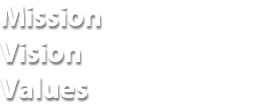
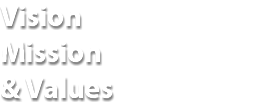
Add files via upload

Changed region(s): [[0.0, 0.7027, 0.4428, 0.9189], [0.0, 0.3784, 0.3838, 0.5946], [0.0, 0.0541, 0.3838, 0.2703]]

diff --git a/css/index.css b/css/index.css
@@ -1,1 +1,1 @@
-.version.index{color:#000009;background-color:#F66265;}#page{width:100%;background-color:transparent;border-color:#000000;margin-left:auto;background-image:none;margin-right:auto;z-index:1;border-width:0px;}#pu4790{z-index:2;}#u4790{margin-right:-10000px;-ms-filter:"progid:DXImageTransform.Microsoft.gradient(startColorstr='#FFD77222', endColorstr='#FFB2591B', GradientType=0)";position:relative;z-index:2;filter:progid:DXImageTransform.Microsoft.gradient(startColorstr=#FFD77222, endColorstr=#FFB2591B, GradientType=0);}#u1174-8{margin-right:-10000px;vertical-align:top;position:relative;z-index:9;display:block;}#pbuttonu1176{z-index:4;margin-right:-10000px;}#buttonu1176{margin-top:1px;position:relative;z-index:4;margin-right:-10000px;border-color:#787878;background-color:#29ABE2;}#pbuttonu1176:hover #buttonu1176{left:0%;margin-left:0%;border-style:solid;border-color:#00FFFF;background-color:transparent;margin-right:-10000px;min-height:0px;position:relative;margin-top:0px;border-width:1px;}#u1177{height:17px;vertical-align:top;background-position:0px 0px;background-repeat:no-repeat;z-index:6;width:91px;background-color:transparent;}#pbuttonu1176:hover #u1177{margin-right:-10000px;background-position:0px 0px;position:relative;background-color:transparent;background-repeat:no-repeat;}#pbuttonu1176 #u1177{margin-right:-10000px;position:relative;}#u2597{margin-right:-10000px;position:relative;z-index:27;background-color:transparent;}#u2598{z-index:28;display:block;}#u1185{opacity:1;position:relative;filter:alpha(opacity=100);-ms-filter:"progid:DXImageTransform.Microsoft.Alpha(Opacity=100)";z-index:17;background:transparent url("../images/seifsa-nav-system-update_03.jpg?crc=487503813") no-repeat left top;background-size:contain;}#u1193{opacity:1;position:relative;filter:alpha(opacity=100);-ms-filter:"progid:DXImageTransform.Microsoft.Alpha(Opacity=100)";z-index:24;background:transparent url("../images/seifsa-nav-system-update_05.jpg?crc=156303888") no-repeat left top;background-size:contain;}#u1192{opacity:1;position:relative;filter:alpha(opacity=100);-ms-filter:"progid:DXImageTransform.Microsoft.Alpha(Opacity=100)";z-index:23;background:transparent url("../images/seifsa-nav-system-update_10.jpg?crc=4044294069") no-repeat left top;background-size:contain;}#u1194{opacity:1;position:relative;filter:alpha(opacity=100);-ms-filter:"progid:DXImageTransform.Microsoft.Alpha(Opacity=100)";z-index:25;background:transparent url("../images/seifsa-nav-system-update_12.jpg?crc=4216409492") no-repeat left top;background-size:contain;}#u1187{opacity:1;background-color:transparent;filter:alpha(opacity=100);-ms-filter:"progid:DXImageTransform.Microsoft.Alpha(Opacity=100)";position:relative;background-position:left top;background-repeat:no-repeat;z-index:19;background-size:contain;}#u1186{opacity:1;background-color:transparent;filter:alpha(opacity=100);-ms-filter:"progid:DXImageTransform.Microsoft.Alpha(Opacity=100)";position:relative;background-position:left top;background-repeat:no-repeat;z-index:18;background-size:contain;}#u1190{opacity:1;position:relative;filter:alpha(opacity=100);-ms-filter:"progid:DXImageTransform.Microsoft.Alpha(Opacity=100)";z-index:21;background:transparent url("../images/seifsa-nav-system-update_22.jpg?crc=4238247746") no-repeat left top;background-size:contain;}#u1191{opacity:1;position:relative;filter:alpha(opacity=100);-ms-filter:"progid:DXImageTransform.Microsoft.Alpha(Opacity=100)";z-index:22;background:transparent url("../images/seifsa-nav-system-update_24.jpg?crc=4035648111") no-repeat left top;background-size:contain;}#u1189{opacity:1;position:relative;filter:alpha(opacity=100);-ms-filter:"progid:DXImageTransform.Microsoft.Alpha(Opacity=100)";z-index:20;background:transparent url("../images/seifsa-nav-system-update_21.jpg?crc=376259991") no-repeat left top;background-size:contain;}#u3473{opacity:1;position:relative;filter:alpha(opacity=100);-ms-filter:"progid:DXImageTransform.Microsoft.Alpha(Opacity=100)";z-index:26;background:transparent url("../images/seifsa-nav-system-update_20.jpg?crc=303644640") no-repeat left top;background-size:contain;}.html{background-color:#FFFFFF;}body{position:relative;}@media (min-width: 763px), print{#muse_css_mq{background-color:#FFFFFF;}#bp_infinity.active{display:block;}#page{min-height:537px;padding-bottom:41px;max-width:960px;}#ppu4790{z-index:0;margin-right:-10000px;margin-top:20px;width:47.09%;margin-left:2.09%;}#pu4790{width:100%;}#u4790{width:452px;background:-webkit-gradient(linear, center top, center bottom, color-stop(50%, #D77222),to(#B2591B));background:-webkit-linear-gradient(top,#D77222 50%,#B2591B );background:linear-gradient(to bottom,#D77222 50%,#B2591B );}#u1174-8{margin-top:20px;left:23px;}#u2597{width:262px;margin-top:58px;left:41.16%;}#pbuttonu1176{margin-top:147px;width:26.33%;margin-left:4.87%;}#buttonu1176{width:117px;height:27px;margin-left:0.85%;}#pbuttonu1176:hover #buttonu1176{width:117px;height:27px;}#u1177{background-image:url("../images/u1177.png?crc=220743904");}#pbuttonu1176:hover #u1177{background-image:url("../images/u1177-r.png?crc=220743904");margin-top:7px;left:12px;}#pbuttonu1176 #u1177{margin-top:7px;left:12px;}#pu1192{z-index:23;margin-top:30px;width:100%;}#u1192{width:221px;height:196px;margin-right:-10000px;}#u1194{width:221px;height:196px;margin-right:-10000px;left:51.11%;}#pu3473{z-index:26;margin-top:9px;width:100%;}#u3473{width:221px;height:84px;margin-right:-10000px;}#u1189{width:221px;height:84px;margin-right:-10000px;left:51.11%;}#ppu1185{z-index:0;margin-right:-10000px;margin-top:20px;width:46.78%;margin-left:51.15%;}#pu1185{z-index:17;width:100%;}#u1185{width:221px;height:198px;margin-right:-10000px;}#u1193{width:221px;height:198px;margin-right:-10000px;left:50.78%;}#u1186{width:449px;height:94px;background-image:url("../images/seifsa-nav-system-update_14.jpg?crc=4095777133");margin-top:29px;}#u1187{width:449px;height:94px;background-image:url("../images/seifsa-nav-system-update_16.jpg?crc=437558047");margin-top:9px;}#pu1190{z-index:21;margin-top:9px;width:100%;}#u1190{width:201px;height:84px;margin-right:-10000px;}#u1191{width:200px;height:84px;margin-right:-10000px;left:55.46%;}}@media (min-width: 602px) and (max-width: 762px){#muse_css_mq{background-color:#0002fa;}#bp_762.active{display:block;}#page{min-height:788.65px;padding-top:19px;padding-bottom:54.35000000000002px;max-width:762px;}#pu4790{width:94.62%;margin-left:2.63%;}#u4790{width:472px;background:-webkit-gradient(linear, center top, center bottom, color-stop(50%, #D77222),to(#B2591B));background:-webkit-linear-gradient(top,#D77222 50%,#B2591B );background:linear-gradient(to bottom,#D77222 50%,#B2591B );}#u1174-8{margin-top:28px;left:39px;}#u2597{width:245px;margin-bottom:-1px;margin-top:70px;left:47.67%;}#pbuttonu1176{margin-top:155px;width:16.51%;margin-left:5.14%;}#buttonu1176{width:117px;height:27px;margin-left:0.85%;}#pbuttonu1176:hover #buttonu1176{width:117px;height:27px;}#u1177{background-image:url("../images/u11772.png?crc=220743904");}#pbuttonu1176:hover #u1177{background-image:url("../images/u1177-r2.png?crc=220743904");margin-top:7px;left:12px;}#pbuttonu1176 #u1177{margin-top:7px;left:12px;}#u1185{width:221px;height:198px;margin-right:-10000px;margin-top:1px;left:69.35%;}#pu1193{z-index:24;margin-top:33px;width:94.62%;margin-left:2.76%;}#u1193{width:221px;height:198px;margin-right:-10000px;}#u1192{width:221px;height:196px;margin-right:-10000px;margin-top:1px;left:34.68%;}#u1194{width:221px;height:196px;margin-right:-10000px;margin-top:1px;left:69.35%;}#pu1186{z-index:18;margin-top:32px;width:93.31%;margin-left:2.63%;}#u1186{width:449px;height:94px;background-image:url("../images/seifsa-nav-system-update_14.jpg?crc=4095777133");margin-right:-10000px;}#u1190{width:201px;height:84px;margin-right:-10000px;margin-top:3px;left:71.73%;}#pu1187{z-index:19;margin-top:28px;width:93.18%;margin-left:2.63%;}#u1187{width:449px;height:94px;background-image:url("../images/seifsa-nav-system-update_16.jpg?crc=437558047");margin-right:-10000px;}#u1191{width:200px;height:84px;margin-right:-10000px;left:71.84%;}#pu3473{z-index:26;margin-top:27px;width:66.93%;margin-left:2.76%;}#u3473{width:221px;height:84px;margin-right:-10000px;}#u1189{width:221px;height:84px;margin-right:-10000px;left:56.67%;}body{overflow-x:hidden;}}@media (min-width: 533px) and (max-width: 601px){#muse_css_mq{background-color:#000259;}#bp_601.active{display:block;}#page{min-height:829.8999999999999px;padding-top:32px;padding-bottom:0px;max-width:601px;}#pu4790{width:84.7%;margin-left:6.49%;}#u4790{background:-webkit-gradient(linear, center top, center bottom, color-stop(50%, #D77222),to(#B2591B));background:-webkit-linear-gradient(top,#D77222 50%,#B2591B );background:linear-gradient(to bottom,#D77222 50%,#B2591B );width:100%;}#u1174-8{margin-top:14px;left:37px;}#u2597{width:186px;margin-top:92px;left:60.12%;}#pbuttonu1176{margin-top:141px;width:23.38%;margin-left:7.08%;}#buttonu1176{width:117px;height:27px;margin-left:0.85%;}#pbuttonu1176:hover #buttonu1176{width:117px;height:27px;}#u1177{background-image:url("../images/u11773.png?crc=220743904");}#pbuttonu1176:hover #u1177{background-image:url("../images/u1177-r3.png?crc=220743904");margin-top:7px;left:12px;}#pbuttonu1176 #u1177{margin-top:7px;left:12px;}#pu1185{z-index:17;margin-top:31px;width:84.7%;margin-left:6.49%;}#u1185{width:221px;height:198px;margin-right:-10000px;}#u1193{width:221px;height:198px;margin-right:-10000px;left:56.59%;}#pu1192{z-index:23;margin-top:31px;width:84.7%;margin-left:6.49%;}#u1192{width:221px;height:196px;margin-right:-10000px;}#u1194{width:221px;height:196px;margin-right:-10000px;left:56.59%;}#u1187{width:449px;height:94px;background-image:url("../images/seifsa-nav-system-update_16.jpg?crc=437558047");margin-top:26px;margin-left:12.65%;}#u1186{width:449px;height:94px;background-image:url("../images/seifsa-nav-system-update_14.jpg?crc=4095777133");margin-top:26px;margin-left:12.65%;}#pu1190{z-index:21;margin-top:25px;width:74.71%;margin-left:12.65%;}#u1190{width:201px;height:84px;margin-right:-10000px;}#u1189{width:221px;height:84px;margin-right:-10000px;left:50.78%;}#pu3473{z-index:26;margin-top:11px;width:74.71%;margin-left:12.65%;}#u3473{width:221px;height:84px;margin-right:-10000px;}#u1191{width:200px;height:84px;margin-right:-10000px;left:55.46%;}body{overflow-x:hidden;padding-bottom:43px;}}@media (min-width: 387px) and (max-width: 532px){#muse_css_mq{background-color:#000214;}#bp_532.active{display:block;}#page{min-height:842px;padding-top:20px;max-width:532px;}#pu4790{width:90.79%;margin-left:5.27%;}#u4790{background:-webkit-gradient(linear, center top, center bottom, color-stop(50%, #D77222),to(#B2591B));background:-webkit-linear-gradient(top,#D77222 50%,#B2591B );background:linear-gradient(to bottom,#D77222 50%,#B2591B );width:100%;}#u1174-8{margin-top:19px;left:31px;}#u2597{width:186px;margin-top:103px;left:57.15%;}#pbuttonu1176{margin-top:138px;width:24.64%;margin-left:6.22%;}#buttonu1176{width:117px;height:27px;margin-left:0.85%;}#pbuttonu1176:hover #buttonu1176{width:117px;height:27px;}#u1177{background-image:url("../images/u11774.png?crc=220743904");}#pbuttonu1176:hover #u1177{background-image:url("../images/u1177-r4.png?crc=220743904");margin-top:7px;left:12px;}#pbuttonu1176 #u1177{margin-top:7px;left:12px;}#pu1185{z-index:17;margin-top:31px;width:89.48%;margin-left:6.4%;}#u1185{width:221px;height:198px;margin-right:-10000px;}#u1193{width:221px;height:198px;margin-right:-10000px;left:53.58%;}#pu1192{z-index:23;margin-top:31px;width:89.48%;margin-left:6.4%;}#u1192{width:221px;height:196px;margin-right:-10000px;}#u1194{width:221px;height:196px;margin-right:-10000px;left:53.58%;}#u1187{width:449px;height:94px;background-image:url("../images/seifsa-nav-system-update_16.jpg?crc=437558047");margin-top:26px;margin-left:7.9%;}#u1186{width:449px;height:94px;background-image:url("../images/seifsa-nav-system-update_14.jpg?crc=4095777133");margin-top:25px;margin-left:7.9%;}#pu1190{z-index:21;margin-top:26px;width:84.4%;margin-left:7.71%;}#u1190{width:201px;height:84px;margin-right:-10000px;}#u1189{width:221px;height:84px;margin-right:-10000px;left:50.78%;}#pu3473{z-index:26;margin-top:11px;width:83.84%;margin-left:7.71%;}#u3473{width:221px;height:84px;margin-right:-10000px;}#u1191{width:200px;height:84px;margin-right:-10000px;left:55.16%;}body{overflow-x:hidden;padding-bottom:43px;}}@media (max-width: 386px){#muse_css_mq{background-color:#000182;}#bp_386.active{display:block;}#page{min-height:480px;padding-top:20px;max-width:386px;}#pu4790{width:73.58%;margin-left:5.19%;}#u4790{background:-webkit-gradient(linear, center top, center bottom, color-stop(50%, #D77222),to(#B2591B));background:-webkit-linear-gradient(top,#D77222 50%,#B2591B );background:linear-gradient(to bottom,#D77222 50%,#B2591B );padding-bottom:70px;width:100%;}#u1174-8{margin-top:9px;left:20px;}#pbuttonu1176{margin-top:143px;width:37.33%;margin-left:6.7%;}#buttonu1176{width:104px;height:25px;margin-left:0.95%;}#pbuttonu1176:hover #buttonu1176{width:104px;height:25px;}#u1177{background-image:url("../images/u11775.png?crc=220743904");}#pbuttonu1176:hover #u1177{background-image:url("../images/u1177-r5.png?crc=220743904");margin-top:4px;left:7px;}#pbuttonu1176 #u1177{margin-top:4px;left:7px;}#u2597{width:137px;margin-top:118px;left:43.67%;}#u1185{width:207px;height:187px;margin-top:11px;margin-left:15.55%;}#u1193{width:207px;height:187px;margin-top:12px;margin-left:15.55%;}#u1192{width:207px;height:187px;margin-top:15px;margin-left:15.55%;}#u1194{width:207px;height:187px;margin-top:9px;margin-left:15.55%;}#u1187{width:280px;height:60px;background-image:url("../images/seifsa-nav-system-update_16-u1187-fr.jpg?crc=3981574856");margin-top:13px;margin-left:6.22%;}#u1186{width:280px;height:60px;background-image:url("../images/seifsa-nav-system-update_14-u1186-fr.jpg?crc=3923027989");margin-top:13px;margin-left:6.22%;}#u1190{width:202px;height:86px;margin-top:13px;margin-left:16.33%;}#u1191{width:202px;height:86px;margin-top:16px;margin-left:16.33%;}#u1189{width:202px;height:78px;margin-top:17px;margin-left:16.33%;}#u3473{width:202px;height:78px;margin-top:14px;margin-left:16.33%;}body{overflow-x:hidden;min-width:386px;}}
+.version.index{color:#000006;background-color:#C8B584;}#page{width:100%;background-color:transparent;border-color:#000000;margin-left:auto;background-image:none;margin-right:auto;z-index:1;border-width:0px;}#pu4790{z-index:2;}#u4790{margin-right:-10000px;-ms-filter:"progid:DXImageTransform.Microsoft.gradient(startColorstr='#FFD77222', endColorstr='#FFB2591B', GradientType=0)";position:relative;z-index:2;filter:progid:DXImageTransform.Microsoft.gradient(startColorstr=#FFD77222, endColorstr=#FFB2591B, GradientType=0);}#u1174-8{margin-right:-10000px;vertical-align:top;position:relative;z-index:9;display:block;}#pbuttonu1176{z-index:4;margin-right:-10000px;}#buttonu1176{margin-top:1px;position:relative;z-index:4;margin-right:-10000px;border-color:#787878;background-color:#29ABE2;}#pbuttonu1176:hover #buttonu1176{left:0%;margin-left:0%;border-style:solid;border-color:#00FFFF;background-color:transparent;margin-right:-10000px;min-height:0px;position:relative;margin-top:0px;border-width:1px;}#u1177{height:17px;vertical-align:top;background-position:0px 0px;background-repeat:no-repeat;z-index:6;width:91px;background-color:transparent;}#pbuttonu1176:hover #u1177{margin-right:-10000px;background-position:0px 0px;position:relative;background-color:transparent;background-repeat:no-repeat;}#pbuttonu1176 #u1177{margin-right:-10000px;position:relative;}#u2597{margin-right:-10000px;position:relative;z-index:27;background-color:transparent;}#u2598{z-index:28;display:block;}#u1185{opacity:1;position:relative;filter:alpha(opacity=100);-ms-filter:"progid:DXImageTransform.Microsoft.Alpha(Opacity=100)";z-index:17;background:transparent url("../images/seifsa-nav-system-update_03.jpg?crc=487503813") no-repeat left top;background-size:contain;}#u1193{opacity:1;position:relative;filter:alpha(opacity=100);-ms-filter:"progid:DXImageTransform.Microsoft.Alpha(Opacity=100)";z-index:24;background:transparent url("../images/seifsa-nav-system-update_05.jpg?crc=156303888") no-repeat left top;background-size:contain;}#u1192{opacity:1;position:relative;filter:alpha(opacity=100);-ms-filter:"progid:DXImageTransform.Microsoft.Alpha(Opacity=100)";z-index:23;background:transparent url("../images/seifsa-nav-system-update_10.jpg?crc=4044294069") no-repeat left top;background-size:contain;}#u1194{opacity:1;position:relative;filter:alpha(opacity=100);-ms-filter:"progid:DXImageTransform.Microsoft.Alpha(Opacity=100)";z-index:25;background:transparent url("../images/seifsa-nav-system-update_12.jpg?crc=4216409492") no-repeat left top;background-size:contain;}#u1187{opacity:1;background-color:transparent;filter:alpha(opacity=100);-ms-filter:"progid:DXImageTransform.Microsoft.Alpha(Opacity=100)";position:relative;background-position:left top;background-repeat:no-repeat;z-index:19;background-size:contain;}#u1186{opacity:1;background-color:transparent;filter:alpha(opacity=100);-ms-filter:"progid:DXImageTransform.Microsoft.Alpha(Opacity=100)";position:relative;background-position:left top;background-repeat:no-repeat;z-index:18;background-size:contain;}#u1190{opacity:1;position:relative;filter:alpha(opacity=100);-ms-filter:"progid:DXImageTransform.Microsoft.Alpha(Opacity=100)";z-index:21;background:transparent url("../images/seifsa-nav-system-update_22.jpg?crc=4238247746") no-repeat left top;background-size:contain;}#u1191{opacity:1;position:relative;filter:alpha(opacity=100);-ms-filter:"progid:DXImageTransform.Microsoft.Alpha(Opacity=100)";z-index:22;background:transparent url("../images/seifsa-nav-system-update_24.jpg?crc=4035648111") no-repeat left top;background-size:contain;}#u1189{opacity:1;position:relative;filter:alpha(opacity=100);-ms-filter:"progid:DXImageTransform.Microsoft.Alpha(Opacity=100)";z-index:20;background:transparent url("../images/seifsa-nav-system-update_21.jpg?crc=376259991") no-repeat left top;background-size:contain;}#u3473{opacity:1;position:relative;filter:alpha(opacity=100);-ms-filter:"progid:DXImageTransform.Microsoft.Alpha(Opacity=100)";z-index:26;background:transparent url("../images/seifsa-nav-system-update_20.jpg?crc=303644640") no-repeat left top;background-size:contain;}.html{background-color:#FFFFFF;}body{position:relative;}@media (min-width: 763px), print{#muse_css_mq{background-color:#FFFFFF;}#bp_infinity.active{display:block;}#page{min-height:537px;padding-bottom:41px;max-width:960px;}#ppu4790{z-index:0;margin-right:-10000px;margin-top:20px;width:47.09%;margin-left:2.09%;}#pu4790{width:100%;}#u4790{width:452px;background:-webkit-gradient(linear, center top, center bottom, color-stop(50%, #D77222),to(#B2591B));background:-webkit-linear-gradient(top,#D77222 50%,#B2591B );background:linear-gradient(to bottom,#D77222 50%,#B2591B );}#u1174-8{margin-top:20px;left:23px;}#u2597{width:262px;margin-bottom:-1px;margin-top:59px;left:41.16%;}#pbuttonu1176{margin-top:147px;width:26.33%;margin-left:4.87%;}#buttonu1176{width:117px;height:27px;margin-left:0.85%;}#pbuttonu1176:hover #buttonu1176{width:117px;height:27px;}#u1177{background-image:url("../images/u1177.png?crc=220743904");}#pbuttonu1176:hover #u1177{background-image:url("../images/u1177-r.png?crc=220743904");margin-top:7px;left:12px;}#pbuttonu1176 #u1177{margin-top:7px;left:12px;}#pu1192{z-index:23;margin-top:30px;width:100%;}#u1192{width:221px;height:196px;margin-right:-10000px;}#u1194{width:221px;height:196px;margin-right:-10000px;left:51.11%;}#pu3473{z-index:26;margin-top:9px;width:100%;}#u3473{width:221px;height:84px;margin-right:-10000px;}#u1189{width:221px;height:84px;margin-right:-10000px;left:51.11%;}#ppu1185{z-index:0;margin-right:-10000px;margin-top:20px;width:46.78%;margin-left:51.15%;}#pu1185{z-index:17;width:100%;}#u1185{width:221px;height:198px;margin-right:-10000px;}#u1193{width:221px;height:198px;margin-right:-10000px;left:50.78%;}#u1186{width:449px;height:94px;background-image:url("../images/seifsa-nav-system-update_14.jpg?crc=4095777133");margin-top:29px;}#u1187{width:449px;height:94px;background-image:url("../images/seifsa-nav-system-update_16.jpg?crc=437558047");margin-top:9px;}#pu1190{z-index:21;margin-top:9px;width:100%;}#u1190{width:201px;height:84px;margin-right:-10000px;}#u1191{width:200px;height:84px;margin-right:-10000px;left:55.46%;}}@media (min-width: 602px) and (max-width: 762px){#muse_css_mq{background-color:#0002fa;}#bp_762.active{display:block;}#page{min-height:788.65px;padding-top:19px;padding-bottom:54.35000000000002px;max-width:762px;}#pu4790{width:94.62%;margin-left:2.63%;}#u4790{width:472px;background:-webkit-gradient(linear, center top, center bottom, color-stop(50%, #D77222),to(#B2591B));background:-webkit-linear-gradient(top,#D77222 50%,#B2591B );background:linear-gradient(to bottom,#D77222 50%,#B2591B );}#u1174-8{margin-top:28px;left:39px;}#u2597{width:245px;margin-bottom:-1px;margin-top:70px;left:47.67%;}#pbuttonu1176{margin-top:155px;width:16.51%;margin-left:5.14%;}#buttonu1176{width:117px;height:27px;margin-left:0.85%;}#pbuttonu1176:hover #buttonu1176{width:117px;height:27px;}#u1177{background-image:url("../images/u11772.png?crc=220743904");}#pbuttonu1176:hover #u1177{background-image:url("../images/u1177-r2.png?crc=220743904");margin-top:7px;left:12px;}#pbuttonu1176 #u1177{margin-top:7px;left:12px;}#u1185{width:221px;height:198px;margin-right:-10000px;margin-top:1px;left:69.35%;}#pu1193{z-index:24;margin-top:33px;width:94.62%;margin-left:2.76%;}#u1193{width:221px;height:198px;margin-right:-10000px;}#u1192{width:221px;height:196px;margin-right:-10000px;margin-top:1px;left:34.68%;}#u1194{width:221px;height:196px;margin-right:-10000px;margin-top:1px;left:69.35%;}#pu1186{z-index:18;margin-top:32px;width:93.31%;margin-left:2.63%;}#u1186{width:449px;height:94px;background-image:url("../images/seifsa-nav-system-update_14.jpg?crc=4095777133");margin-right:-10000px;}#u1190{width:201px;height:84px;margin-right:-10000px;margin-top:3px;left:71.73%;}#pu1187{z-index:19;margin-top:28px;width:93.18%;margin-left:2.63%;}#u1187{width:449px;height:94px;background-image:url("../images/seifsa-nav-system-update_16.jpg?crc=437558047");margin-right:-10000px;}#u1191{width:200px;height:84px;margin-right:-10000px;left:71.84%;}#pu3473{z-index:26;margin-top:27px;width:66.93%;margin-left:2.76%;}#u3473{width:221px;height:84px;margin-right:-10000px;}#u1189{width:221px;height:84px;margin-right:-10000px;left:56.67%;}body{overflow-x:hidden;}}@media (min-width: 533px) and (max-width: 601px){#muse_css_mq{background-color:#000259;}#bp_601.active{display:block;}#page{min-height:829.8999999999999px;padding-top:32px;padding-bottom:0px;max-width:601px;}#pu4790{width:84.7%;margin-left:6.49%;}#u4790{background:-webkit-gradient(linear, center top, center bottom, color-stop(50%, #D77222),to(#B2591B));background:-webkit-linear-gradient(top,#D77222 50%,#B2591B );background:linear-gradient(to bottom,#D77222 50%,#B2591B );width:100%;}#u1174-8{margin-top:14px;left:37px;}#u2597{width:186px;margin-bottom:-1px;margin-top:93px;left:60.12%;}#pbuttonu1176{margin-top:141px;width:23.38%;margin-left:7.08%;}#buttonu1176{width:117px;height:27px;margin-left:0.85%;}#pbuttonu1176:hover #buttonu1176{width:117px;height:27px;}#u1177{background-image:url("../images/u11773.png?crc=220743904");}#pbuttonu1176:hover #u1177{background-image:url("../images/u1177-r3.png?crc=220743904");margin-top:7px;left:12px;}#pbuttonu1176 #u1177{margin-top:7px;left:12px;}#pu1185{z-index:17;margin-top:31px;width:84.7%;margin-left:6.49%;}#u1185{width:221px;height:198px;margin-right:-10000px;}#u1193{width:221px;height:198px;margin-right:-10000px;left:56.59%;}#pu1192{z-index:23;margin-top:31px;width:84.7%;margin-left:6.49%;}#u1192{width:221px;height:196px;margin-right:-10000px;}#u1194{width:221px;height:196px;margin-right:-10000px;left:56.59%;}#u1187{width:449px;height:94px;background-image:url("../images/seifsa-nav-system-update_16.jpg?crc=437558047");margin-top:26px;margin-left:12.65%;}#u1186{width:449px;height:94px;background-image:url("../images/seifsa-nav-system-update_14.jpg?crc=4095777133");margin-top:26px;margin-left:12.65%;}#pu1190{z-index:21;margin-top:25px;width:74.71%;margin-left:12.65%;}#u1190{width:201px;height:84px;margin-right:-10000px;}#u1189{width:221px;height:84px;margin-right:-10000px;left:50.78%;}#pu3473{z-index:26;margin-top:11px;width:74.71%;margin-left:12.65%;}#u3473{width:221px;height:84px;margin-right:-10000px;}#u1191{width:200px;height:84px;margin-right:-10000px;left:55.46%;}body{overflow-x:hidden;padding-bottom:43px;}}@media (min-width: 387px) and (max-width: 532px){#muse_css_mq{background-color:#000214;}#bp_532.active{display:block;}#page{min-height:842px;padding-top:20px;max-width:532px;}#pu4790{width:90.79%;margin-left:5.27%;}#u4790{background:-webkit-gradient(linear, center top, center bottom, color-stop(50%, #D77222),to(#B2591B));background:-webkit-linear-gradient(top,#D77222 50%,#B2591B );background:linear-gradient(to bottom,#D77222 50%,#B2591B );width:100%;}#u1174-8{margin-top:19px;left:31px;}#u2597{width:186px;margin-bottom:-1px;margin-top:104px;left:57.15%;}#pbuttonu1176{margin-top:138px;width:24.64%;margin-left:6.22%;}#buttonu1176{width:117px;height:27px;margin-left:0.85%;}#pbuttonu1176:hover #buttonu1176{width:117px;height:27px;}#u1177{background-image:url("../images/u11774.png?crc=220743904");}#pbuttonu1176:hover #u1177{background-image:url("../images/u1177-r4.png?crc=220743904");margin-top:7px;left:12px;}#pbuttonu1176 #u1177{margin-top:7px;left:12px;}#pu1185{z-index:17;margin-top:31px;width:89.48%;margin-left:6.4%;}#u1185{width:221px;height:198px;margin-right:-10000px;}#u1193{width:221px;height:198px;margin-right:-10000px;left:53.58%;}#pu1192{z-index:23;margin-top:31px;width:89.48%;margin-left:6.4%;}#u1192{width:221px;height:196px;margin-right:-10000px;}#u1194{width:221px;height:196px;margin-right:-10000px;left:53.58%;}#u1187{width:449px;height:94px;background-image:url("../images/seifsa-nav-system-update_16.jpg?crc=437558047");margin-top:26px;margin-left:7.9%;}#u1186{width:449px;height:94px;background-image:url("../images/seifsa-nav-system-update_14.jpg?crc=4095777133");margin-top:25px;margin-left:7.9%;}#pu1190{z-index:21;margin-top:26px;width:84.4%;margin-left:7.71%;}#u1190{width:201px;height:84px;margin-right:-10000px;}#u1189{width:221px;height:84px;margin-right:-10000px;left:50.78%;}#pu3473{z-index:26;margin-top:11px;width:83.84%;margin-left:7.71%;}#u3473{width:221px;height:84px;margin-right:-10000px;}#u1191{width:200px;height:84px;margin-right:-10000px;left:55.16%;}body{overflow-x:hidden;padding-bottom:43px;}}@media (max-width: 386px){#muse_css_mq{background-color:#000182;}#bp_386.active{display:block;}#page{min-height:480px;padding-top:20px;max-width:386px;}#pu4790{width:73.58%;margin-left:5.19%;}#u4790{background:-webkit-gradient(linear, center top, center bottom, color-stop(50%, #D77222),to(#B2591B));background:-webkit-linear-gradient(top,#D77222 50%,#B2591B );background:linear-gradient(to bottom,#D77222 50%,#B2591B );padding-bottom:70px;width:100%;}#u1174-8{margin-top:9px;left:20px;}#pbuttonu1176{margin-top:143px;width:37.33%;margin-left:6.7%;}#buttonu1176{width:104px;height:25px;margin-left:0.95%;}#pbuttonu1176:hover #buttonu1176{width:104px;height:25px;}#u1177{background-image:url("../images/u11775.png?crc=220743904");}#pbuttonu1176:hover #u1177{background-image:url("../images/u1177-r5.png?crc=220743904");margin-top:4px;left:7px;}#pbuttonu1176 #u1177{margin-top:4px;left:7px;}#u2597{width:137px;margin-top:119px;left:43.67%;}#u1185{width:207px;height:187px;margin-top:10px;margin-left:15.55%;}#u1193{width:207px;height:187px;margin-top:12px;margin-left:15.55%;}#u1192{width:207px;height:187px;margin-top:15px;margin-left:15.55%;}#u1194{width:207px;height:187px;margin-top:9px;margin-left:15.55%;}#u1187{width:280px;height:60px;background-image:url("../images/seifsa-nav-system-update_16-u1187-fr.jpg?crc=3981574856");margin-top:13px;margin-left:6.22%;}#u1186{width:280px;height:60px;background-image:url("../images/seifsa-nav-system-update_14-u1186-fr.jpg?crc=3923027989");margin-top:13px;margin-left:6.22%;}#u1190{width:202px;height:86px;margin-top:13px;margin-left:16.33%;}#u1191{width:202px;height:86px;margin-top:16px;margin-left:16.33%;}#u1189{width:202px;height:78px;margin-top:17px;margin-left:16.33%;}#u3473{width:202px;height:78px;margin-top:14px;margin-left:16.33%;}body{overflow-x:hidden;min-width:386px;}}

diff --git a/index.html b/index.html
@@ -17,10 +17,10 @@ if(typeof Muse == "undefined") window.Muse = {}; window.Muse.assets = {"required
   <title>Home</title>
   <!-- CSS -->
   <link rel="stylesheet" type="text/css" href="css/site_global.css?crc=444006867"/>
-  <link rel="stylesheet" type="text/css" href="css/index.css?crc=167141989" id="pagesheet"/>
+  <link rel="stylesheet" type="text/css" href="css/index.css?crc=113816964" id="pagesheet"/>
   <!-- IE-only CSS -->
   <!--[if lt IE 9]>
-  <link rel="stylesheet" type="text/css" href="css/nomq_index.css?crc=4145560849" id="nomq_pagesheet"/>
+  <link rel="stylesheet" type="text/css" href="css/nomq_index.css?crc=196097361" id="nomq_pagesheet"/>
   <![endif]-->
    </head>
  <body>
@@ -30,7 +30,7 @@ if(typeof Muse == "undefined") window.Muse = {}; window.Muse.assets = {"required
     <div class="clearfix grpelem" id="ppu4790"><!-- column -->
      <div class="clearfix colelem" id="pu4790"><!-- group -->
       <div class="gradient clearfix grpelem" id="u4790"><!-- group -->
-       <img class="grpelem temp_no_img_src" id="u1174-8" alt="Mission Vision Values" width="271" height="111" data-orig-src="images/u1174-8.png?crc=4122932548" src="images/blank.gif?crc=4208392903"/><!-- rasterized frame -->
+       <img class="grpelem temp_no_img_src" id="u1174-8" alt="Vision Mission &amp; Values" width="271" height="111" data-orig-src="images/u1174-8.png?crc=3917239536" src="images/blank.gif?crc=4208392903"/><!-- rasterized frame -->
        <div class="clip_frame grpelem" id="u2597" data-sizePolicy="fixed" data-pintopage="page_fluidx"><!-- svg -->
         <img class="svg temp_no_img_src" id="u2598" data-orig-src="images/75th-anniversary.svg?crc=112661809" width="260" height="139" alt="" data-mu-svgfallback="images/75th%20anniversary_poster_.png?crc=462425662" src="images/blank.gif?crc=4208392903"/>
        </div>
@@ -69,7 +69,7 @@ if(typeof Muse == "undefined") window.Muse = {}; window.Muse.assets = {"required
    <div class="clearfix borderbox temp_no_id" data-orig-id="page"><!-- column -->
     <div class="clearfix colelem temp_no_id" data-orig-id="pu4790"><!-- group -->
      <div class="gradient clearfix grpelem temp_no_id" data-orig-id="u4790"><!-- group -->
-      <img class="grpelem temp_no_id temp_no_img_src" alt="Mission Vision Values" width="271" height="111" data-orig-src="images/u1174-82.png?crc=4122932548" data-orig-id="u1174-8" src="images/blank.gif?crc=4208392903"/><!-- rasterized frame -->
+      <img class="grpelem temp_no_id temp_no_img_src" alt="Vision Mission &amp; Values" width="271" height="111" data-orig-src="images/u1174-82.png?crc=3917239536" data-orig-id="u1174-8" src="images/blank.gif?crc=4208392903"/><!-- rasterized frame -->
       <div class="clip_frame grpelem temp_no_id" data-sizePolicy="fixed" data-pintopage="page_fluidx" data-orig-id="u2597"><!-- svg -->
        <img class="svg temp_no_id temp_no_img_src" data-orig-src="images/75th-anniversary.svg?crc=112661809" width="242" height="129" alt="" data-mu-svgfallback="images/75th%20anniversary_poster_.png?crc=462425662" data-orig-id="u2598" src="images/blank.gif?crc=4208392903"/>
       </div>
@@ -100,7 +100,7 @@ if(typeof Muse == "undefined") window.Muse = {}; window.Muse.assets = {"required
    <div class="clearfix borderbox temp_no_id" data-orig-id="page"><!-- column -->
     <div class="clearfix colelem temp_no_id" data-orig-id="pu4790"><!-- group -->
      <div class="gradient clearfix grpelem temp_no_id" data-orig-id="u4790"><!-- group -->
-      <img class="grpelem temp_no_id temp_no_img_src" alt="Mission Vision Values" width="271" height="111" data-orig-src="images/u1174-83.png?crc=4122932548" data-orig-id="u1174-8" src="images/blank.gif?crc=4208392903"/><!-- rasterized frame -->
+      <img class="grpelem temp_no_id temp_no_img_src" alt="Vision Mission &amp; Values" width="271" height="111" data-orig-src="images/u1174-83.png?crc=3917239536" data-orig-id="u1174-8" src="images/blank.gif?crc=4208392903"/><!-- rasterized frame -->
       <div class="clip_frame grpelem temp_no_id shared_content" data-sizePolicy="fixed" data-pintopage="page_fluidx" data-orig-id="u2597" data-content-guid="u2597_content"><!-- svg -->
        <img class="svg temp_no_id temp_no_img_src" data-orig-src="images/75th-anniversary.svg?crc=112661809" width="185" height="98" alt="" data-mu-svgfallback="images/75th%20anniversary_poster_.png?crc=462425662" data-orig-id="u2598" src="images/blank.gif?crc=4208392903"/>
       </div>
@@ -128,7 +128,7 @@ if(typeof Muse == "undefined") window.Muse = {}; window.Muse.assets = {"required
    <div class="clearfix borderbox temp_no_id" data-orig-id="page"><!-- column -->
     <div class="clearfix colelem temp_no_id" data-orig-id="pu4790"><!-- group -->
      <div class="gradient clearfix grpelem temp_no_id" data-orig-id="u4790"><!-- group -->
-      <img class="grpelem temp_no_id temp_no_img_src" alt="Mission Vision Values" width="271" height="111" data-orig-src="images/u1174-84.png?crc=4122932548" data-orig-id="u1174-8" src="images/blank.gif?crc=4208392903"/><!-- rasterized frame -->
+      <img class="grpelem temp_no_id temp_no_img_src" alt="Vision Mission &amp; Values" width="271" height="111" data-orig-src="images/u1174-84.png?crc=3917239536" data-orig-id="u1174-8" src="images/blank.gif?crc=4208392903"/><!-- rasterized frame -->
       <span class="clip_frame grpelem placeholder" data-placeholder-for="u2597_content"><!-- placeholder node --></span>
      </div>
      <span class="Button clearfix grpelem placeholder" data-placeholder-for="pbuttonu1176_content"><!-- placeholder node --></span>
@@ -154,7 +154,7 @@ if(typeof Muse == "undefined") window.Muse = {}; window.Muse.assets = {"required
    <div class="clearfix borderbox temp_no_id" data-orig-id="page"><!-- column -->
     <div class="clearfix colelem temp_no_id" data-orig-id="pu4790"><!-- group -->
      <div class="gradient clearfix grpelem temp_no_id" data-orig-id="u4790"><!-- group -->
-      <img class="grpelem temp_no_id temp_no_img_src" alt="Mission Vision Values" width="180" height="111" data-orig-src="images/u1174-85.png?crc=421534971" data-orig-id="u1174-8" src="images/blank.gif?crc=4208392903"/><!-- rasterized frame -->
+      <img class="grpelem temp_no_id temp_no_img_src" alt="Vision Mission &amp; Values" width="180" height="111" data-orig-src="images/u1174-85.png?crc=4293375046" data-orig-id="u1174-8" src="images/blank.gif?crc=4208392903"/><!-- rasterized frame -->
      </div>
      <span class="Button clearfix grpelem placeholder" data-placeholder-for="pbuttonu1176_content"><!-- placeholder node --></span>
      <div class="clip_frame grpelem temp_no_id" data-sizePolicy="fixed" data-pintopage="page_fluidx" data-orig-id="u2597"><!-- svg -->

diff --git a/css/nomq_index.css b/css/nomq_index.css
@@ -1,1 +1,1 @@
-#muse_css_mq{background-color:#FFFFFF;}#bp_infinity.active{display:block;}#page{min-height:537px;padding-bottom:41px;max-width:960px;}#ppu4790{z-index:0;margin-right:-10000px;margin-top:20px;width:47.09%;margin-left:2.09%;}#pu4790{width:100%;}#u4790{width:452px;background:-webkit-gradient(linear, center top, center bottom, color-stop(50%, #D77222),to(#B2591B));background:-webkit-linear-gradient(top,#D77222 50%,#B2591B );background:linear-gradient(to bottom,#D77222 50%,#B2591B );}#u1174-8{margin-top:20px;left:23px;}#u2597{width:262px;margin-top:58px;left:41.16%;}#pbuttonu1176{margin-top:147px;width:26.33%;margin-left:4.87%;}#buttonu1176{width:117px;height:27px;margin-left:0.85%;}#pbuttonu1176:hover #buttonu1176{width:117px;height:27px;}#u1177{background-image:url("../images/u1177.png?crc=220743904");}#pbuttonu1176:hover #u1177{background-image:url("../images/u1177-r.png?crc=220743904");margin-top:7px;left:12px;}#pbuttonu1176 #u1177{margin-top:7px;left:12px;}#pu1192{z-index:23;margin-top:30px;width:100%;}#u1192{width:221px;height:196px;margin-right:-10000px;}#u1194{width:221px;height:196px;margin-right:-10000px;left:51.11%;}#pu3473{z-index:26;margin-top:9px;width:100%;}#u3473{width:221px;height:84px;margin-right:-10000px;}#u1189{width:221px;height:84px;margin-right:-10000px;left:51.11%;}#ppu1185{z-index:0;margin-right:-10000px;margin-top:20px;width:46.78%;margin-left:51.15%;}#pu1185{z-index:17;width:100%;}#u1185{width:221px;height:198px;margin-right:-10000px;}#u1193{width:221px;height:198px;margin-right:-10000px;left:50.78%;}#u1186{width:449px;height:94px;background-image:url("../images/seifsa-nav-system-update_14.jpg?crc=4095777133");margin-top:29px;}#u1187{width:449px;height:94px;background-image:url("../images/seifsa-nav-system-update_16.jpg?crc=437558047");margin-top:9px;}#pu1190{z-index:21;margin-top:9px;width:100%;}#u1190{width:201px;height:84px;margin-right:-10000px;}#u1191{width:200px;height:84px;margin-right:-10000px;left:55.46%;}
+#muse_css_mq{background-color:#FFFFFF;}#bp_infinity.active{display:block;}#page{min-height:537px;padding-bottom:41px;max-width:960px;}#ppu4790{z-index:0;margin-right:-10000px;margin-top:20px;width:47.09%;margin-left:2.09%;}#pu4790{width:100%;}#u4790{width:452px;background:-webkit-gradient(linear, center top, center bottom, color-stop(50%, #D77222),to(#B2591B));background:-webkit-linear-gradient(top,#D77222 50%,#B2591B );background:linear-gradient(to bottom,#D77222 50%,#B2591B );}#u1174-8{margin-top:20px;left:23px;}#u2597{width:262px;margin-bottom:-1px;margin-top:59px;left:41.16%;}#pbuttonu1176{margin-top:147px;width:26.33%;margin-left:4.87%;}#buttonu1176{width:117px;height:27px;margin-left:0.85%;}#pbuttonu1176:hover #buttonu1176{width:117px;height:27px;}#u1177{background-image:url("../images/u1177.png?crc=220743904");}#pbuttonu1176:hover #u1177{background-image:url("../images/u1177-r.png?crc=220743904");margin-top:7px;left:12px;}#pbuttonu1176 #u1177{margin-top:7px;left:12px;}#pu1192{z-index:23;margin-top:30px;width:100%;}#u1192{width:221px;height:196px;margin-right:-10000px;}#u1194{width:221px;height:196px;margin-right:-10000px;left:51.11%;}#pu3473{z-index:26;margin-top:9px;width:100%;}#u3473{width:221px;height:84px;margin-right:-10000px;}#u1189{width:221px;height:84px;margin-right:-10000px;left:51.11%;}#ppu1185{z-index:0;margin-right:-10000px;margin-top:20px;width:46.78%;margin-left:51.15%;}#pu1185{z-index:17;width:100%;}#u1185{width:221px;height:198px;margin-right:-10000px;}#u1193{width:221px;height:198px;margin-right:-10000px;left:50.78%;}#u1186{width:449px;height:94px;background-image:url("../images/seifsa-nav-system-update_14.jpg?crc=4095777133");margin-top:29px;}#u1187{width:449px;height:94px;background-image:url("../images/seifsa-nav-system-update_16.jpg?crc=437558047");margin-top:9px;}#pu1190{z-index:21;margin-top:9px;width:100%;}#u1190{width:201px;height:84px;margin-right:-10000px;}#u1191{width:200px;height:84px;margin-right:-10000px;left:55.46%;}
